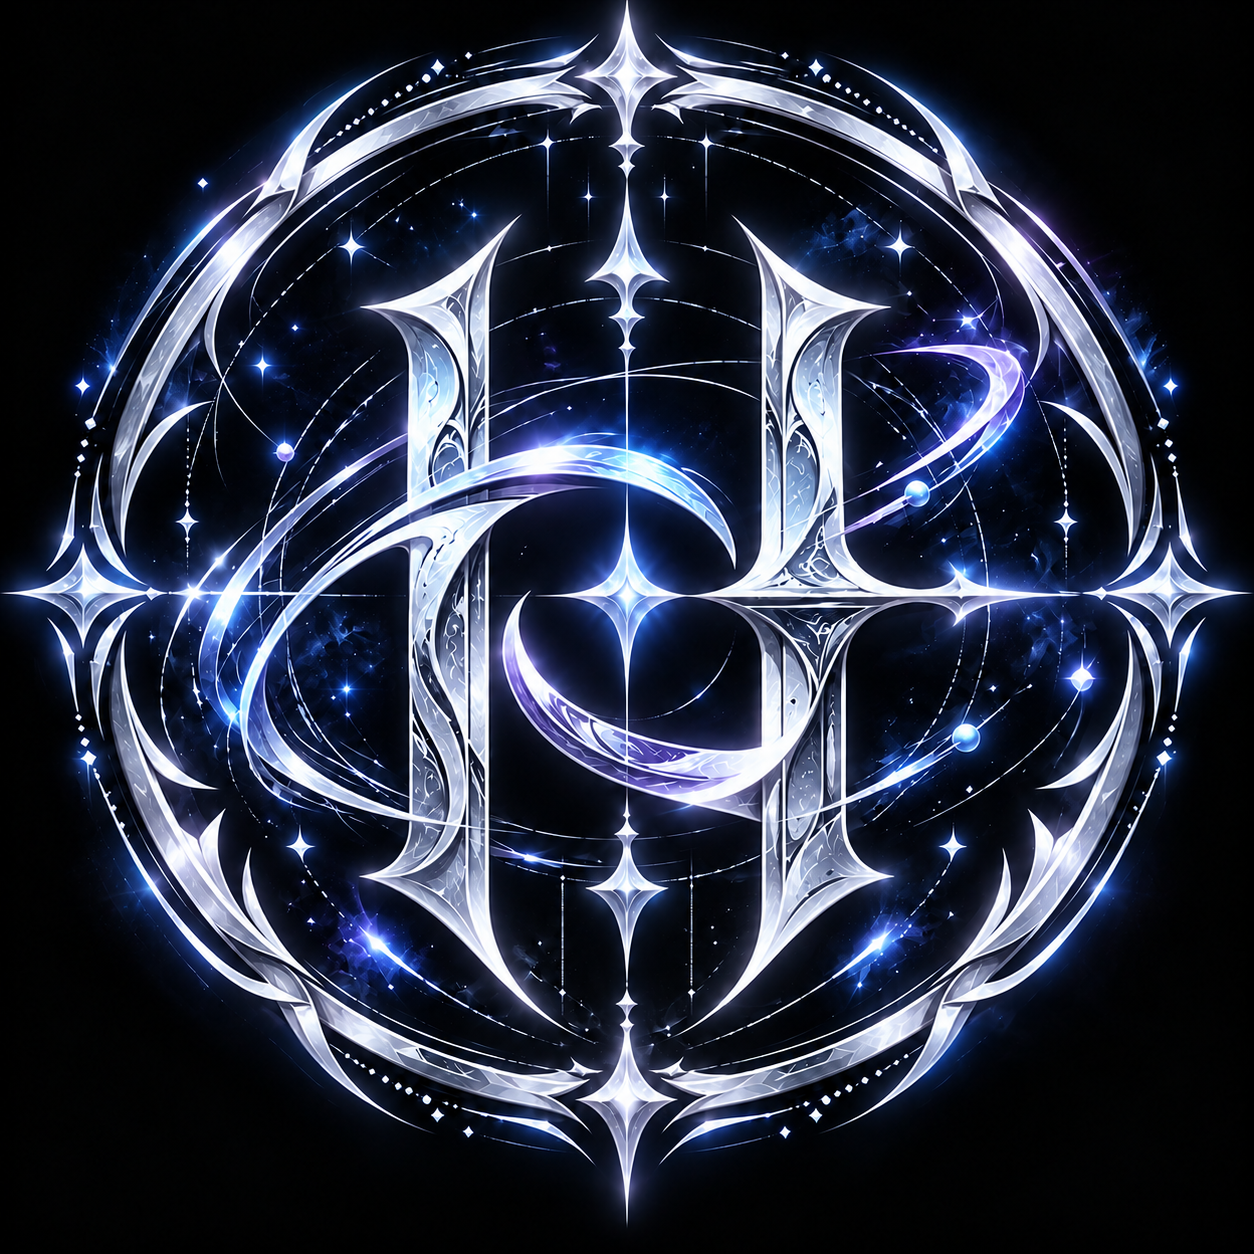
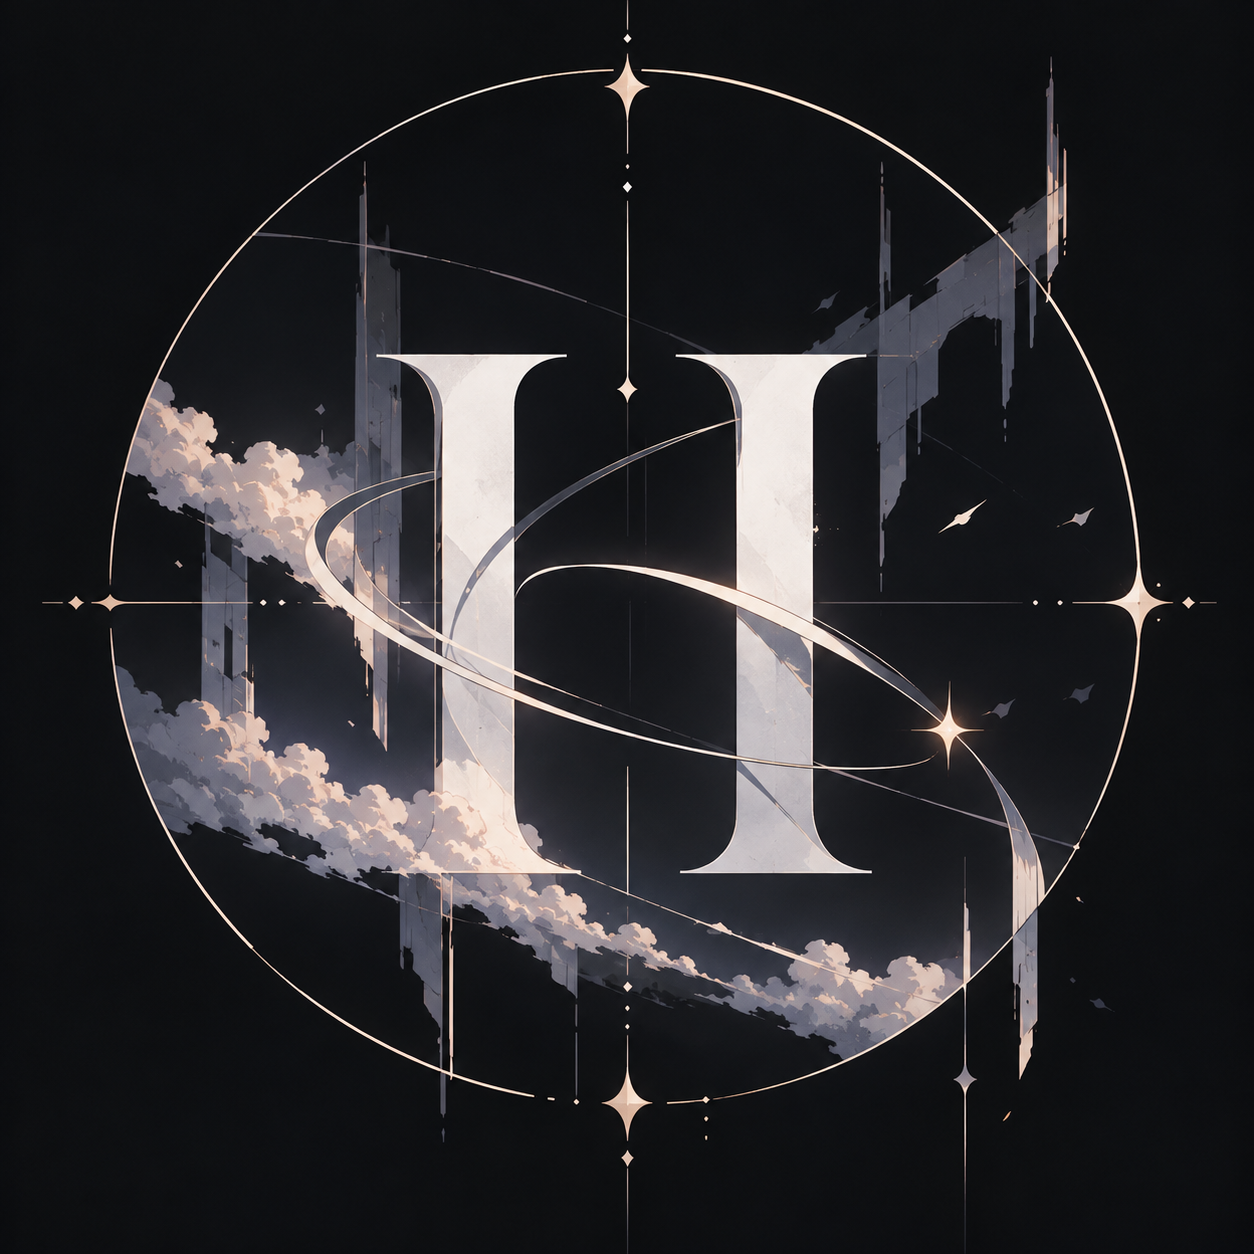
update

diff --git a/index.html b/index.html
@@ -4,36 +4,36 @@
 <meta charset="utf-8">
 <meta name="viewport" content="width=device-width,initial-scale=1,viewport-fit=cover">
 <meta name="description" content="게임 개발자 하성욱의 포트폴리오">
-<meta name="theme-color" content="#05080F">
+<meta name="theme-color" content="#08090C">
 <title>하성욱 포트폴리오</title>
 <link rel="preconnect" href="https://fonts.googleapis.com">
 <link rel="preconnect" href="https://fonts.gstatic.com" crossorigin>
 <link rel="stylesheet" href="https://fonts.googleapis.com/css2?family=Oxanium:wght@500;600;700&family=IBM+Plex+Sans+KR:wght@400;500;600;700&family=JetBrains+Mono:wght@400;500&display=swap">
 <style>
 /* Layout: arcade screen hero (interactive canvas + 3 channel cards) → workflow → channel-style project wall → watch modal → contact.
-   Deliberately single dark theme: a neon-blue arcade at night. Every color derives from these tokens. */
+   Dark portfolio with restrained lavender and champagne accents. */
 :root{
   color-scheme: dark;
-  --bg:#05080F;
-  --bg-raise:#09101D;
-  --bg-glass:rgba(5,8,15,.84);
-  --surface:#0D1526;
-  --surface-2:#132037;
-  --line:#1C2A44;
-  --line-strong:#2B3F63;
-  --fg:#E8F0FF;
-  --fg-2:#C0CDE8;
-  --muted:#93A3C4;
-  --dim:#7384A6;
-  --accent:#3FA2FF;
-  --accent-2:#6FD3FF;
-  --accent-ink:#041327;
-  --a08:rgba(63,162,255,.08);
-  --a14:rgba(63,162,255,.14);
-  --a30:rgba(63,162,255,.30);
-  --a55:rgba(63,162,255,.55);
-  --violet:#8C7BFF;
-  --ice:#CFE3FF;
+  --bg:#08090C;
+  --bg-raise:#111216;
+  --bg-glass:rgba(8,9,12,.88);
+  --surface:#16181D;
+  --surface-2:#202228;
+  --line:#292C34;
+  --line-strong:#484C57;
+  --fg:#FFFFFF;
+  --fg-2:#D1D3DA;
+  --muted:#A0A4AE;
+  --dim:#808590;
+  --accent:#F3F4F6;
+  --accent-2:#D3D6DE;
+  --accent-ink:#08090C;
+  --a08:rgba(255,255,255,.08);
+  --a14:rgba(255,255,255,.14);
+  --a30:rgba(255,255,255,.30);
+  --a55:rgba(255,255,255,.55);
+  --violet:#C5C7CE;
+  --ice:#F3F4F6;
   --warn:#FF6B8A;
   --scrim:rgba(2,4,9,.8);
 
@@ -338,131 +338,74 @@ footer{padding-block:28px 40px;color:var(--dim);font-size:12px}
   display: block;
 }
 
-/* =========================================
-   BLACK & WHITE PORTFOLIO THEME
-   ========================================= */
-
-:root {
-  --bg: #08090C;
-  --bg-raise: #111216;
-  --bg-glass: rgba(8,9,12,.88);
-
-  --surface: #16181D;
-  --surface-2: #202228;
-
-  --line: #292C34;
-  --line-strong: #484C57;
-
-  --fg: #FFFFFF;
-  --fg-2: #D1D3DA;
-  --muted: #A0A4AE;
-  --dim: #808590;
-
-  --accent: #F3F4F6;
-  --accent-2: #D3D6DE;
-  --accent-ink: #08090C;
-
-  --a08: rgba(255,255,255,.08);
-  --a14: rgba(255,255,255,.14);
-  --a30: rgba(255,255,255,.30);
-  --a55: rgba(255,255,255,.55);
-
-  --violet: #C5C7CE;
-  --ice: #F3F4F6;
-}
-
-/* 상단 배경 */
-.hero {
-  background:
-    radial-gradient(80% 50% at 50% 0%, #25272F 0%, transparent 72%),
-    var(--bg);
-}
-
-/* 메인 화면 테두리 */
-.frame {
-  background: linear-gradient(180deg, #35373E, #15161B);
-  box-shadow:
-    0 0 0 1px var(--a30),
-    0 0 40px rgba(255,255,255,.08),
-    0 30px 80px rgba(0,0,0,.6);
-}
-
-/* 바닥 그리드 */
-.floor::before {
-  background:
-    repeating-linear-gradient(90deg,rgba(255,255,255,.18) 0 1px,transparent 1px 64px),
-    repeating-linear-gradient(0deg,rgba(255,255,255,.14) 0 1px,transparent 1px 48px);
-}
-
-/* 게임 디자인 철학 카드 */
-.ch-card {
-  background: linear-gradient(
-    180deg,
-    rgba(32,33,39,.85),
-    rgba(12,13,17,.85)
-  );
-}
-
-.ch-card[aria-pressed="true"] {
-  box-shadow:
-    0 0 0 1px var(--accent),
-    0 0 25px rgba(255,255,255,.12),
-    inset 0 0 24px var(--a08);
-}
-
-/* 강조 버튼 */
-.btn-glow {
-  box-shadow:
-    0 0 18px rgba(255,255,255,.12),
-    inset 0 0 12px var(--a08);
-}
-
-/* 배너 텍스트와 격자 */
-.banner-text {
-  text-shadow: 0 0 24px rgba(255,255,255,.25);
-}
-
-.banner::before {
-  background: repeating-linear-gradient(
-    90deg,
-    rgba(255,255,255,.04) 0 1px,
-    transparent 1px 28px
-  );
-}
-
-/* 프로젝트 카드 호버 */
-.card:hover .thumb,
-.card:focus-visible .thumb {
-  border-color: var(--accent);
-  box-shadow: 0 0 22px rgba(255,255,255,.16);
-}
-
-/* 연락처 영역 */
-.contact-box {
-  background:
-    radial-gradient(70% 120% at 0% 0%,#24262D 0%,transparent 60%),
-    var(--bg-raise);
-  box-shadow: inset 0 0 40px var(--a08);
-}
-
-/* 플레이 테스트 버튼 */
-.play-controls .play-mode.active {
-  border-color: var(--accent);
-  background: rgba(255,255,255,.12);
-  color: var(--accent);
-  box-shadow: 0 0 12px rgba(255,255,255,.1);
-}
-
-.play-controls button:hover {
-  border-color: var(--accent-2);
-  color: #fff;
-}
-
-/* 배너 글씨 가독성 개선 */
-.banner-text {
-  color: #FFFFFF;
-  -webkit-text-stroke: 1.5px #101522;
-  text-shadow: 0 2px 8px rgba(0,0,0,.85);
+/* Refined portfolio; project content and media paths are preserved. */
+:root{--lavender:#bcb4e3;--champagne:#d5c3a5;--fg:#f4f2ed;--dim:#969aa7}
+.hero{background:radial-gradient(ellipse at 50% 0%,#252330 0%,transparent 62%),var(--bg)}
+.frame{background:linear-gradient(150deg,#45434e,#19191f 60%);box-shadow:0 0 0 1px #44434c,0 22px 70px #0008}
+.floor{opacity:.28}
+.floor::before{background:repeating-linear-gradient(90deg,#bcb4e326 0 1px,transparent 1px 64px),repeating-linear-gradient(0deg,#bcb4e320 0 1px,transparent 1px 48px);animation:none}
+.screen-glow{opacity:.18}
+.hero-copy{isolation:isolate;padding-bottom:110px}
+.hero-copy::before{content:"";position:absolute;z-index:-1;width:min(80%,780px);height:300px;left:50%;top:0;transform:translateX(-50%);background:radial-gradient(ellipse,#8375b313,transparent 68%);pointer-events:none}
+.hero-copy>.eyebrow{color:var(--champagne);letter-spacing:.22em;font-size:11px;margin-bottom:24px}
+.hero-copy h1{font-family:var(--font-body);font-size:clamp(34px,6.1vw,72px);font-weight:600;letter-spacing:-.045em;line-height:1.12;text-shadow:none}
+.hero-copy h1 em{display:inline-block;color:var(--lavender);background:linear-gradient(110deg,#f1e9db 5%,#bcb4e3 56%,#d8dce7 95%);-webkit-background-clip:text;background-clip:text;-webkit-text-fill-color:transparent}
+.lede{margin-top:24px;color:#b4b5be;font-size:15px;max-width:52ch}
+.channels{gap:16px;max-width:1040px;margin-top:48px}
+.ch-card{--card-accent:var(--lavender);align-items:flex-start;text-align:left;gap:12px;padding:24px 24px 32px;border:1px solid #34323e;border-radius:16px;background:radial-gradient(ellipse at 100% 0%,#8474ba16,transparent 65%),linear-gradient(145deg,#1a1a21,#101116);overflow:hidden}
+.ch-card:nth-child(2){--card-accent:#c5cbd5}
+.ch-card:nth-child(3){--card-accent:var(--champagne)}
+.ch-card::before{content:"";position:absolute;inset:0 24px auto;height:1px;background:linear-gradient(90deg,transparent,var(--card-accent),transparent);opacity:.4}
+.ch-card:hover{transform:translateY(-4px);border-color:#797487;box-shadow:0 14px 30px #0003}
+.ch-card[aria-pressed="true"]{border-color:#8b819e;box-shadow:0 12px 36px #0004,inset 0 0 28px #a69ac409}
+.ch-top{color:var(--card-accent);letter-spacing:.17em;margin-bottom:4px}
+.ch-icon{color:var(--card-accent);width:27px;height:27px;margin:8px 0 0}
+.ch-big{color:var(--fg);font-size:25px;letter-spacing:.03em;margin-top:2px}
+.ch-title{font-size:14px}
+.ch-desc{font-size:13px;color:#aaabb6}
+[aria-pressed="true"] .ch-live{background:var(--card-accent);box-shadow:0 0 9px #bcb4e340}
+.ch-bar{left:24px;right:24px;background:#ffffff08;height:1px}
+.ch-bar i{background:var(--card-accent);box-shadow:none}
+.hint{margin-top:24px;font-family:var(--font-body);font-size:12px}
+.btn{transition:transform .2s,background .2s,border-color .2s,color .2s}
+.btn:hover{transform:translateY(-2px)}
+.btn-glow{background:#e7e3ec;color:#17151d;border-color:#e7e3ec;box-shadow:0 4px 20px #0002}
+.btn-glow:hover{background:#f5f0e9;border-color:#f5f0e9;color:#17151d}
+.section{scroll-margin-top:75px}
+#workflow{background:radial-gradient(ellipse at 100% 30%,#b4a0da08,transparent 65%),#0c0d11}
+.eyebrow{color:var(--lavender)}
+.sec-head .eyebrow{margin-bottom:14px;color:var(--champagne)}
+.steps{gap:14px}
+.step{gap:14px;padding:24px 20px;border-radius:12px;border-color:#303039;background:linear-gradient(150deg,#1b1b22,#121318);transition:transform .25s,border-color .25s;min-height:260px}
+.step:hover{transform:translateY(-4px);border-color:#696273}
+.step-n{display:flex;align-items:center;gap:14px;font-size:24px;font-weight:400;color:var(--champagne);letter-spacing:-.06em}
+.step-n::after{content:"";height:1px;flex:1;background:linear-gradient(90deg,#bcb4e34d,transparent)}
+.step:not(:last-child)::after{background:#bcb4e34d;right:-15px;width:15px;top:36px}
+.step h3{font-size:16px;line-height:1.5}
+.step p{color:#adaeb8}
+.out{font-family:var(--font-body);font-size:11px;line-height:1.4;border-style:solid;border-color:#d5c3a530;color:#d5c3a5;background:#d5c3a508;padding:6px 9px}
+.banner::before{background:repeating-linear-gradient(90deg,#ffffff0a 0 1px,transparent 1px 28px)}
+.banner-text{color:#fff;-webkit-text-stroke:1.5px #101522;text-shadow:0 2px 8px #000d}
+.card:hover .thumb,.card:focus-visible .thumb{border-color:var(--accent);box-shadow:0 0 22px #ffffff29}
+.play-controls button{background:#14141deb;color:#d9d5e6;border-color:#555060}
+.play-controls button:hover{border-color:var(--lavender);color:#fff}
+.play-controls .play-mode.active{border-color:var(--lavender);background:#bcb4e31f;color:#eee9ff;box-shadow:none}
+#contact{background:linear-gradient(180deg,var(--bg),#101016);padding-bottom:80px}
+.contact-box{position:relative;overflow:hidden;display:grid;grid-template-columns:1fr 1fr;gap:40px;padding:clamp(28px,5vw,64px);border:1px solid #49434f;border-radius:20px;background:radial-gradient(ellipse at 100% 0%,#9a83cf20,transparent 62%),radial-gradient(ellipse at 0% 100%,#c3a67b0b,transparent 60%),#141419;box-shadow:0 24px 70px #0003}
+.contact-box::before{content:"";position:absolute;top:0;left:36px;right:36px;height:1px;background:linear-gradient(90deg,#d5c3a5,#bcb4e3,transparent);opacity:.65}
+.contact-box h2{font-size:clamp(30px,4vw,46px);font-weight:500;letter-spacing:-.04em;line-height:1.3}
+.contact-box .eyebrow{color:var(--champagne);margin-bottom:22px}
+.c-actions{display:grid;grid-template-columns:1fr 1fr;gap:14px 12px;border-left:1px solid #ffffff12;padding-left:36px;align-content:center}
+.c-actions .btn{justify-content:center;padding:0 14px;min-height:52px;font-size:13px}
+.contact-label{grid-column:1/-1;font:400 10px/1 var(--font-mono);letter-spacing:.18em;color:var(--champagne);margin-top:14px}
+.addr{grid-column:1/-1;padding:0;border:0;border-radius:0;color:#cecad7;font-size:clamp(11px,1.5vw,14px);line-height:1.6;overflow-wrap:anywhere}
+@media(max-width:980px){.step{min-height:220px}.contact-box{gap:28px}.c-actions{padding-left:24px;grid-template-columns:1fr}.c-actions .btn{width:100%}}
+@media(max-width:680px){.hero-copy{padding-bottom:64px}.hero-copy>.eyebrow{font-size:9px;letter-spacing:.12em}.channels{margin-top:32px}.ch-card{padding:20px 20px 26px;column-gap:18px;row-gap:6px;text-align:left}.ch-icon{margin:0}.ch-big{font-size:22px}.ch-top{margin:0}.contact-box{grid-template-columns:1fr}.c-actions{border-left:0;border-top:1px solid #ffffff12;padding:24px 0 0;grid-template-columns:1fr 1fr}.step{min-height:0}.contact-box h2{max-width:none}}
+@media(max-width:360px){.c-actions{grid-template-columns:1fr}}
+@media(prefers-reduced-motion:reduce){.ch-card:hover,.step:hover,.btn:hover{transform:none}.screen-tilt{transform:none}}
+@media(forced-colors:active){.hero-copy h1 em{-webkit-text-fill-color:CanvasText;background:none}}
+#contact #addr {
+  display: none !important;
 }
 
 </style>
@@ -483,7 +426,7 @@ footer{padding-block:28px 40px;color:var(--dim);font-size:12px}
         <div class="screen-wrap">
           <div class="screen-tilt">
             <div class="frame">
-              <canvas id="screen" role="img" aria-label="선택한 채널에 맞는 인터랙티브 장면이 나오는 스크린"></canvas>
+              <canvas id="screen" tabindex="0" role="img" aria-label="인터랙티브 스크린. 클릭 또는 Enter로 실행. SIMPLICITY는 Space를 누르는 동안 시간 정지."></canvas>
 
 <div class="play-controls" id="playControls" hidden>
   <button type="button" class="play-mode active" data-test="0">
@@ -509,7 +452,7 @@ footer{padding-block:28px 40px;color:var(--dim);font-size:12px}
     </div>
 
     <div class="hero-copy wrap">
-      <p class="eyebrow">TECHNICAL GAME DESIGNER · 하성욱</p>
+      <p class="eyebrow">TECHNICAL GAME DESIGNER</p>
       <h1 id="heroTitle">Beyond the Game.<br><em>The Art of Play.</em></h1>
       <p class="lede">재미를 기획하고, 경험을 설계하는 테크니컬 게임 디자이너입니다.</p>
       <div class="channels" id="channels" role="group" aria-label="나를 설명하는 세 가지 채널">
@@ -624,11 +567,14 @@ footer{padding-block:28px 40px;color:var(--dim);font-size:12px}
         <button class="btn" type="button" id="copy">
           이메일 복사
         </button>
-        <span class="addr" id="addr" hidden></span>
+        
+        <span class="addr" id="addr"></span>
       </div>
     </div>
   </div>
 </section>
+
+</main>
 
 <div class="watch" id="watch" role="dialog" aria-modal="true" aria-labelledby="wTitle" hidden>
   <div class="watch-in">
@@ -1796,21 +1742,22 @@ function selectPlayTest(test) {
   resetCoyote(SW);
 
   document.querySelectorAll('.play-mode').forEach(btn => {
-    btn.classList.toggle(
-      'active',
-      Number(btn.dataset.test) === test
-    );
+    const selected = Number(btn.dataset.test) === test;
+    btn.classList.toggle('active', selected);
+    btn.setAttribute('aria-pressed', String(selected));
   });
 }
 
 document.querySelectorAll('.play-mode').forEach(btn => {
   btn.addEventListener('click', () => {
     selectPlayTest(Number(btn.dataset.test));
+    if (reduce) drawFrame(0);
   });
 });
 
 document.getElementById('playRetry').addEventListener('click', () => {
   resetCoyote(SW);
+  if (reduce) drawFrame(0);
 });
 
 
@@ -1983,7 +1930,7 @@ function setTab(tab){
 tabs.addEventListener('click', e=>{ const b = e.target.closest('.tab'); if(b) setTab(b.dataset.tab); });
 
 /* watch modal */
-const watch = document.getElementById('watch'); let lastFocus = null, wAnim = 0;
+const watch = document.getElementById('watch'); let lastFocus = null;
 
 function renderProjectDetails(blocks){
   const container=document.getElementById('wDetails');
@@ -2026,10 +1973,9 @@ function openWatch(id){
   descBox.hidden = Array.isArray(p.details) && p.details.length > 0;
   document.getElementById('wPoints').innerHTML = (p.points ?? []).map(t=>`<li>${esc(t)}</li>`).join('');
   renderProjectDetails(p.details);
-  const logs = SITE.logs.filter(l=>l[0]===id);
   
   
-  watch.hidden = false; document.documentElement.style.overflow = 'hidden';
+  watch.hidden = false; document.querySelector('main').inert = true; document.getElementById('nav').inert = true; document.documentElement.style.overflow = 'hidden';
   const cv = document.getElementById('wCanvas');
 
   const galleryImage = document.getElementById('galleryImage');
@@ -2084,11 +2030,42 @@ function openWatch(id){
   }
   document.getElementById('wClose').focus();
 }
-function closeWatch(){ watch.hidden = true; document.documentElement.style.overflow = ''; if(lastFocus) lastFocus.focus(); }
+function closeWatch(){ watch.hidden = true; document.querySelector('main').inert = false; document.getElementById('nav').inert = false; document.documentElement.style.overflow = ''; if(lastFocus) lastFocus.focus(); }
 grid.addEventListener('click', e=>{ const c = e.target.closest('.card'); if(c) openWatch(c.dataset.id); });
 document.getElementById('wClose').addEventListener('click', closeWatch);
 watch.addEventListener('click', e=>{ if(e.target===watch) closeWatch(); });
 document.addEventListener('keydown', e=>{ if(!watch.hidden && e.key==='Escape') closeWatch(); });
+
+/* Keyboard parity for existing interactions. */
+screen.addEventListener('keydown', e => {
+  if (!['Enter', ' '].includes(e.key)) return;
+  e.preventDefault(); if (e.repeat) return; userPicked = true;
+  if (mode === 0) tapMath(SW / 2, SH / 2);
+  else if (mode === 1) startFreeze();
+  else act();
+  if (reduce) drawFrame(0);
+});
+screen.addEventListener('keyup', e => { if (['Enter', ' '].includes(e.key)) stopFreeze(); });
+screen.addEventListener('blur', stopFreeze);
+tabs.addEventListener('keydown', e => {
+  const buttons = [...tabs.querySelectorAll('.tab')];
+  const current = buttons.indexOf(document.activeElement);
+  if (current < 0) return;
+  let next;
+  if (e.key === 'ArrowRight') next = (current + 1) % buttons.length;
+  else if (e.key === 'ArrowLeft') next = (current - 1 + buttons.length) % buttons.length;
+  else if (e.key === 'Home') next = 0;
+  else if (e.key === 'End') next = buttons.length - 1;
+  else return;
+  e.preventDefault(); buttons[next].focus(); setTab(buttons[next].dataset.tab);
+});
+watch.addEventListener('keydown', e => {
+  if (e.key !== 'Tab') return;
+  const items = [...watch.querySelectorAll('button,a[href],[tabindex="0"]')].filter(el => el.getClientRects().length);
+  const first = items[0], last = items[items.length - 1];
+  if (e.shiftKey && document.activeElement === first) {e.preventDefault(); last.focus();}
+  else if (!e.shiftKey && document.activeElement === last) {e.preventDefault(); first.focus();}
+});
 
 /* nav + copy */
 const nav = document.getElementById('nav');
